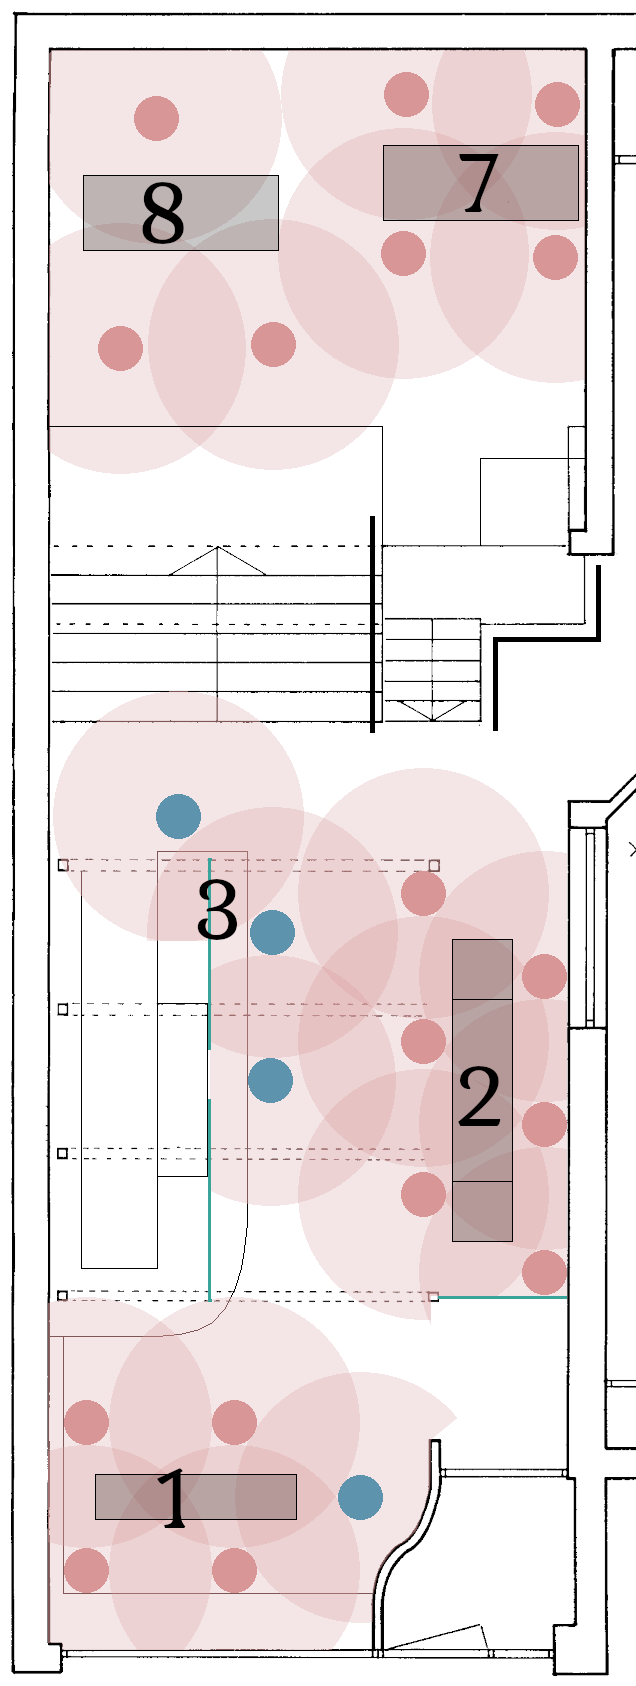
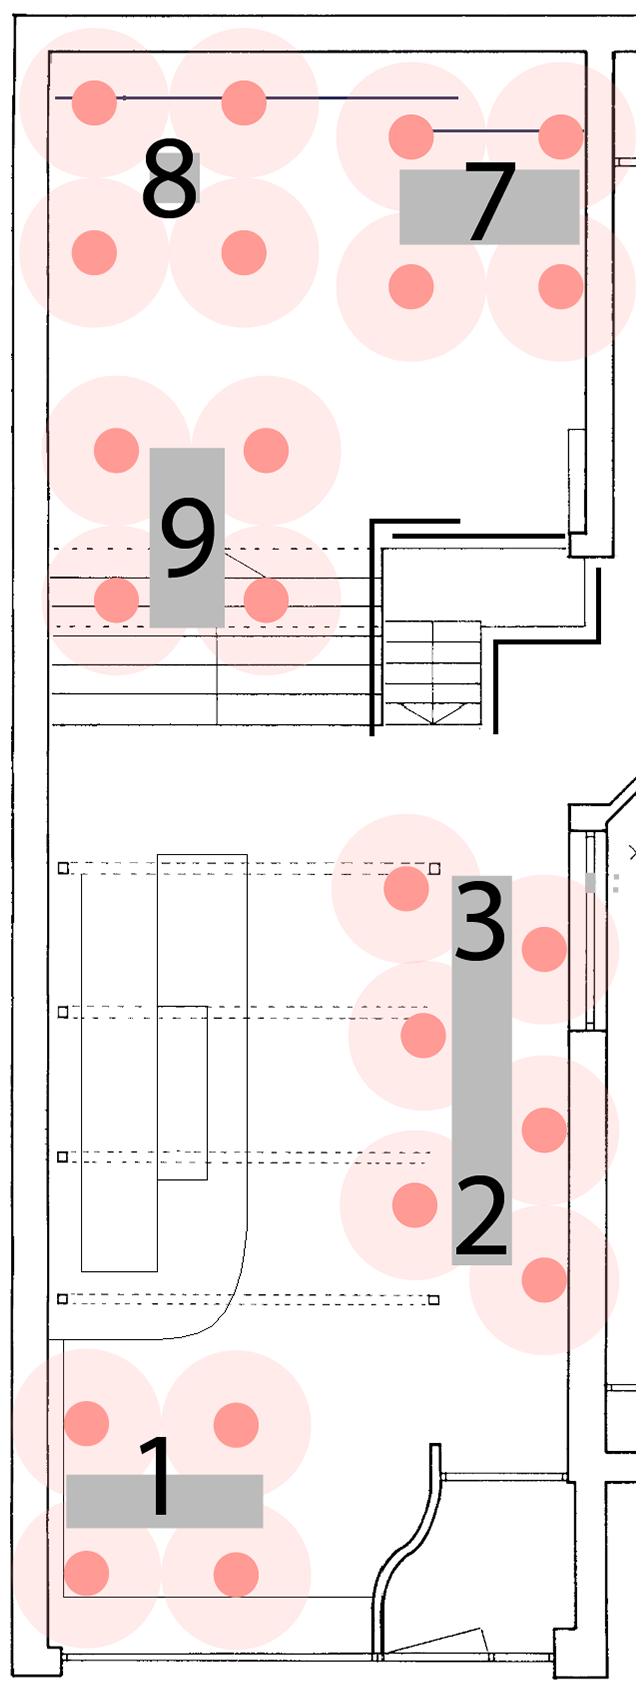
Update table maps and available tables
Available tables should be in a configuration variable instead of hard coded but for now just edited the current solution.

diff --git a/resources/views/livewire/change-dialog.blade.php b/resources/views/livewire/change-dialog.blade.php
@@ -68,7 +68,7 @@
 
                 @if ($booking->ggd_consent)
                     <div class="flex space-x-2 justify-center">
-                        @foreach(range(1, 8) as $i)
+                        @foreach(range(1, 9) as $i)
                             @if (optional($booking->currentTablePlacement())->table_number == $i)
                                 <div class="flex items-center justify-center w-12 h-12 rounded bg-orange-500 text-white border border-orange-500 font-semibold">
                                     {{ $i }}

diff --git a/resources/views/livewire/visitor/visitor-table-registration.blade.php b/resources/views/livewire/visitor/visitor-table-registration.blade.php
@@ -24,7 +24,7 @@
             @endif
 
             <div class="flex space-x-2 justify-center flex-wrap">
-                @foreach(range(1, 8) as $i)
+                @foreach(range(1, 9) as $i)
                     @if (optional($booking->currentTablePlacement())->table_number == $i)
                         <div class="flex items-center justify-center w-12 h-12 my-2 rounded bg-orange-500 text-white border border-orange-500 font-semibold">
                             {{ $i }}
